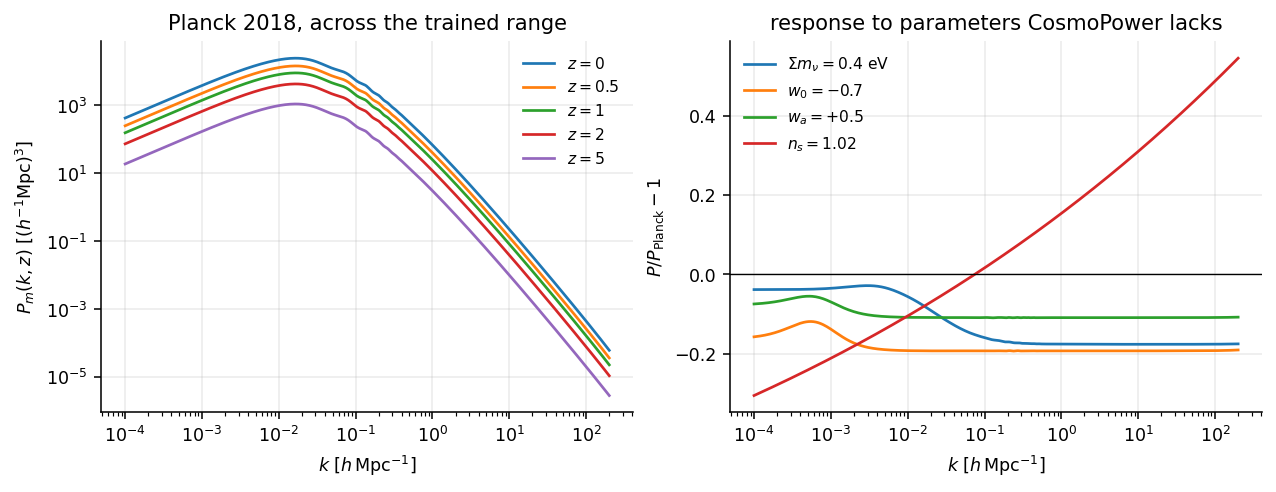
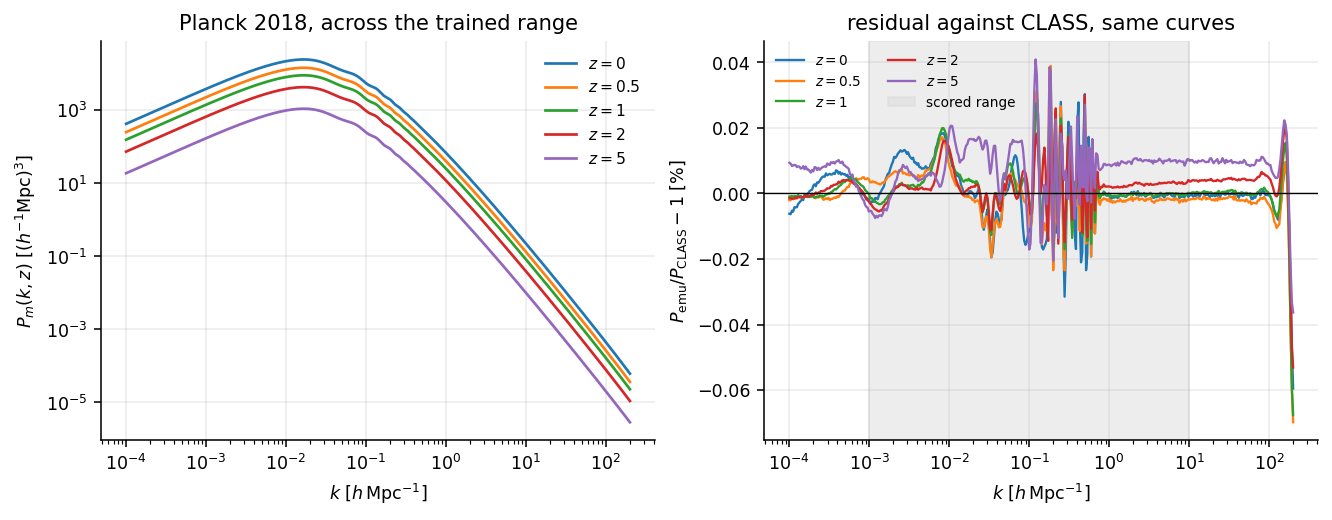
01_spectrum: show the residual against CLASS, not the CosmoPower framing
The right panel showed the response to the three parameters CosmoPower does not
carry, which is a comparison against another package on a page whose job is to
say what this one returns.  It now shows the same five redshift curves as the
left panel, as a fractional residual against a CLASS solve of the same
cosmology -- the comparison a reader wants immediately after seeing the
spectrum.  The accompanying text goes with it.

The figure needs `[gen]` now, so it moved into the group `--fast` skips.

One caveat is called out in the page rather than left to be discovered: this is
the *fiducial* cosmology, near the middle of the training box, and its residual
(under 0.04 %) is smaller than the accuracy a reader should assume.  The
held-out median of 0.111 % is on the accuracy page, and the note points there.

diff --git a/docs/make_figures.py b/docs/make_figures.py
@@ -55,30 +55,39 @@ def _save(fig, name):
 
 # ---------------------------------------------------------------- core only
 def fig_spectrum(plt, emu):
-    """P(k, z) for a few cosmologies: what the package does."""
-    k = np.logspace(-4, np.log10(grid.K_MAX), 400)
-    fig, (a, b) = plt.subplots(1, 2, figsize=(9, 3.4))
+    """P(k, z), and the same curves' residual against CLASS.
 
-    for z in (0.0, 0.5, 1.0, 2.0, 5.0):
-        a.loglog(k, emu.pk(k, z, PLANCK), lw=1.4, label=f"$z = {z:g}$")
+    Needs `[gen]`: the right panel is the emulator against the solver it is
+    distilled from, on the same lines as the left, which is the comparison a
+    reader most wants next to the spectrum itself.
+    """
+    from emu_pk import validate as V
+
+    zs = (0.0, 0.5, 1.0, 2.0, 5.0)
+    k = np.logspace(-4, np.log10(grid.K_MAX), 400)
+    fig, (a, b) = plt.subplots(1, 2, figsize=(9.4, 3.6))
+
+    # One CLASS solve returns every redshift.
+    ref = V._class_pk(PLANCK, np.array(zs), k)[0]
+    got = np.asarray(emu.pk(k, np.array(zs), PLANCK))
+
+    for i, z in enumerate(zs):
+        a.loglog(k, got[i], lw=1.4, label=f"$z = {z:g}$")
     a.set(xlabel=r"$k\ [h\,\mathrm{Mpc}^{-1}]$",
           ylabel=r"$P_m(k,z)\ [(h^{-1}\mathrm{Mpc})^3]$",
           title="Planck 2018, across the trained range")
     a.legend(frameon=False, fontsize=8)
 
-    ref = np.asarray(emu.pk(k, 0.0, PLANCK))
-    for lbl, j, v in ((r"$\Sigma m_\nu = 0.4$ eV", 5, 0.4),
-                      (r"$w_0 = -0.7$", 6, -0.7),
-                      (r"$w_a = +0.5$", 7, 0.5),
-                      (r"$n_s = 1.02$", 3, 1.02)):
-        t = PLANCK.copy()
-        t[j] = v
-        b.semilogx(k, np.asarray(emu.pk(k, 0.0, t)) / ref - 1.0, lw=1.4, label=lbl)
+    for i, z in enumerate(zs):
+        b.semilogx(k, 100.0 * (got[i] / ref[i] - 1.0), lw=1.2,
+                   label=f"$z = {z:g}$")
     b.axhline(0, color="k", lw=0.7)
+    b.axvspan(V.K_TRUSTED[0], V.K_TRUSTED[1], color="0.85", alpha=0.45,
+              zorder=0, label="scored range")
     b.set(xlabel=r"$k\ [h\,\mathrm{Mpc}^{-1}]$",
-          ylabel=r"$P/P_{\rm Planck} - 1$",
-          title="response to parameters CosmoPower lacks")
-    b.legend(frameon=False, fontsize=8)
+          ylabel=r"$P_{\rm emu}/P_{\rm CLASS} - 1$ [%]",
+          title="residual against CLASS, same curves")
+    b.legend(frameon=False, fontsize=7, ncol=2)
     return _save(fig, "01_spectrum")
 
 
@@ -246,7 +255,6 @@ def main(argv=None):
     plt = _style()
     emu = PkEmulator(check_box=False)
     print(f"emu_pk {emu_pk.__version__}")
-    fig_spectrum(plt, emu)
     fig_validation(plt)
     fig_derivatives(plt, emu)
     fig_box(plt)
@@ -255,12 +263,14 @@ def main(argv=None):
     except Exception as e:                       # the table is optional data
         print(f"  skipped 05_correction: {type(e).__name__}: {e}")
     if a.fast:
-        print("  --fast: skipping the CLASS comparison")
+        print("  --fast: skipping the figures that need CLASS "
+              "(01_spectrum, 02_residuals)")
         return
     try:
+        fig_spectrum(plt, emu)
         fig_against_class(plt, emu)
     except ImportError:
-        print("  skipped 02_residuals: needs `pip install 'emu_pk[gen]'`")
+        print("  skipped the CLASS figures: needs `pip install 'emu_pk[gen]'`")
 
 
 if __name__ == "__main__":

diff --git a/emu_pk/validate.py b/emu_pk/validate.py
@@ -35,7 +35,7 @@ ruler.  Without it a run can spend a week chasing its own finite
 difference.
 
 **The amplitude, which the shape metric removes.**  Scoring renormalises at
-:data:`K_NORM`, so a spectrum right in shape and wrong in amplitude scores
+``K_NORM``, so a spectrum right in shape and wrong in amplitude scores
 zero.  The discarded factor is reported as ``amplitude`` beside each shape
 summary, which is what makes the shape number readable as an accuracy claim
 about :math:`P(k)` rather than about its shape alone.

diff --git a/docs/quickstart.md b/docs/quickstart.md
@@ -20,7 +20,7 @@ theta = np.array([
     0.0,       # wa
 ])
 
-pk = emu.pk(k, z=0.0, params=theta)              # (Mpc/h)^3
+pk_m = emu.pk(k, z=0.0, params=theta)            # P_m(k) in (Mpc/h)^3
 ```
 
 The parameter order is `emu_pk.box.PARAMS`, and it is read from there by
@@ -29,8 +29,11 @@ everything downstream rather than repeated.
 ## Several redshifts at once
 
 ```python
-z = np.array([0.0, 0.5, 1.0, 2.0])
-pk = emu.pk(k, z, theta)          # shape (4, 400)
+z_nodes = np.array([0.0, 0.5, 1.0, 2.0])
+pk_m = emu.pk(k, z=z_nodes, params=theta)
+
+pk_m.shape        # (4, 400) == (len(z_nodes), len(k)) -- one row per redshift
+pk_m[2]           # P_m(k) at z = 1.0
 ```
 
 ## The cold field: `pk` versus `pk_cb`
@@ -96,21 +99,34 @@ This is the point of the package. `emu.pk` is a JAX function, so:
 import jax
 import jax.numpy as jnp
 
-def ln_pk(t):
-    return jnp.log(emu.pk(k, 0.0, t))
+from emu_pk import box
 
-jac = jax.jacfwd(ln_pk)(jnp.asarray(theta))       # (400, 8)
+# jax.jacfwd differentiates with respect to the FIRST argument, so the thing
+# you want derivatives of has to be that argument.  Here it is the parameter
+# vector; k and the redshift are held fixed inside.
+def ln_pk_m(params):
+    return jnp.log(emu.pk(k, z=0.0, params=params))
+
+dlnP_dtheta = jax.jacfwd(ln_pk_m)(jnp.asarray(theta))
+
+dlnP_dtheta.shape                                # (400, 8) == (len(k), len(PARAMS))
+dlnP_dtheta[:, box.PARAMS.index("omega_cdm")]    # d ln P / d omega_cdm, across k
 ```
 
-`jac[:, i]` is $\partial\ln P/\partial\theta_i$ across $k$. For `ln10A_s` it is
-exactly 1 and for `n_s` exactly $\ln(kh/k_*)$, because those two are not
-learned — see {doc}`design_notes`.
+Index the columns through `box.PARAMS` rather than by number: the order is
+defined once, there, and reading it back is what keeps a column from silently
+meaning a different parameter. For `ln10A_s` the column is exactly 1 and for
+`n_s` exactly $\ln(kh/k_*)$, because those two are not learned — see
+{doc}`design_notes`.
 
-You can differentiate with respect to redshift the same way, which is what
-$f\sigma_8$ is built from:
+Redshift works the same way. Make the redshift the first argument, and hold the
+cosmology fixed inside:
 
 ```python
-dlnP_dz = jax.jacfwd(lambda s: jnp.log(emu.pk(k, s, theta)))(0.5)
+def ln_pk_m_at(redshift):
+    return jnp.log(emu.pk(k, z=redshift, params=theta))
+
+dlnP_dz = jax.jacfwd(ln_pk_m_at)(0.5)            # (400,), evaluated at z = 0.5
 ```
 
 ## Staying inside the box
@@ -120,9 +136,12 @@ returning a number that is finite, smooth and unwarranted. `PkEmulator` checks
 on every call where the values are concrete:
 
 ```python
-bad = theta.copy()
-bad[6] = -0.2                                     # w0, outside [-1.5, -0.5]
-emu.pk(k, 0.0, bad)
+from emu_pk import box
+
+theta_outside = theta.copy()
+theta_outside[box.PARAMS.index("w0")] = -0.2      # w0 bound is [-1.5, -0.5]
+
+emu.pk(k, z=0.0, params=theta_outside)
 # ValueError: outside the emulator training box, where the network
 # extrapolates with no accuracy guarantee: w0 = -0.2 not in [-1.5, -0.5].
 ```

diff --git a/docs/tutorial/02_accuracy.md b/docs/tutorial/02_accuracy.md
@@ -38,6 +38,14 @@ $k = 0.05$. Not the full grid: the emulator is trained to 200 h/Mpc, but a
 *linear* spectrum there is far inside the regime a halo model replaces, and
 scoring it would report a number nobody uses.
 
+**Amplitude error** is what that renormalisation throws away: the fractional
+error in $P$ at $k = 0.05\ h\,\mathrm{Mpc}^{-1}$ itself. Dividing it out is
+what makes the shape number a statement about shape — but on its own it would
+let a spectrum wrong by a constant factor score perfectly, so `validate`
+reports the discarded factor beside every shape summary rather than discarding
+it. Read together they are an accuracy claim about $P(k)$, not about its shape
+alone.
+
 **Derivative error** is the median over $k$ of
 
 $$\frac{\left|\partial\ln P/\partial\theta\ \text{(emulator)} -
@@ -49,6 +57,29 @@ central differences. Dividing by CLASS's own derivative is deliberate: a
 parameter the emulator is simply *blind* to then scores 1 rather than something
 small. A derivative that is absent shows up in a Fisher matrix as a flat
 direction, which is visible; one that is merely wrong does not.
+
+## The amplitude is not where the error is
+
+The natural worry about a renormalised metric is that it hides a constant
+offset. Here it does not — the amplitude is roughly an order of magnitude
+better than the shape, so removing it barely moves the number. At $z = 0$,
+over the same held-out design:
+
+| | median | 90th | max |
+|---|---|---|---|
+| amplitude at $k = 0.05$ | 0.012 % | 0.035 % | 0.059 % |
+| shape, renormalised | 0.111 % | 0.224 % | 0.621 % |
+| **total, nothing removed** | **0.112 %** | 0.221 % | 0.603 % |
+
+The last row is the one to quote if you want a single number for $P(k)$: the
+median absolute error is **0.112 %**, against 0.111 % for the shape. The
+amplitude holds across the range too, between 0.005 % and 0.012 % at every
+scored redshift.
+
+Two things follow. The 0.111 % headline is not an artefact of the
+renormalisation. And an analysis that marginalises over amplitude — which most
+do, through $A_s$ or $\sigma_8$ — is using the part of the prediction that was
+already the more accurate of the two.
 
 ## The floor
 

diff --git a/docs/tutorial/01_spectrum.md b/docs/tutorial/01_spectrum.md
@@ -17,21 +17,26 @@ theta = np.array([0.02237, 0.1200, 0.6736, 0.9649, 3.044, 0.06, -1.0, 0.0])
 pk = emu.pk(k, z=0.0, params=theta)
 ```
 
-![The spectrum, and its response to neutrinos and dark energy](../_static/figures/01_spectrum.png)
+![The spectrum, and its residual against CLASS](../_static/figures/01_spectrum.png)
 
 *Left:* $P_m(k,z)$ at the Planck 2018 cosmology across the trained redshift
-range. *Right:* the fractional response to the three parameters CosmoPower's
-`mpk_lin` does not carry, plus a tilt for scale. All at $z=0$, relative to the
-Planck values.
+range. *Right:* the same five curves, as a fractional residual against a CLASS
+solve of the same cosmology. The shaded band is the range the accuracy claims
+are scored over, $k \in [10^{-3}, 10]\ h\,\mathrm{Mpc}^{-1}$.
 
-The neutrino panel is the familiar step: free streaming suppresses power below
-the free-streaming scale and saturates at high $k$. The textbook rule of thumb
-is $\Delta P/P \approx -8f_\nu$; at $\Sigma m_\nu = 0.4$ eV, where
-$f_\nu = \Omega_\nu/\Omega_m = 0.029$, that rule would give $-23\%$ and the
-emulator gives $-20\%$, which is the usual size of the rule's error. What
-matters downstream is that this is a *shape* change and not an amplitude one —
-which is exactly why an emulator that cannot represent it cannot be rescued by
-renormalising.
+Two things to read off it. The residual is well under a tenth of a percent
+across six decades of $k$ and the whole redshift range, and its structure is
+concentrated at the acoustic scale, $k \approx 0.1$–$0.5\
+h\,\mathrm{Mpc}^{-1}$, where the spectrum has the most features per decade and
+where any emulator works hardest.
+
+```{note}
+This is the **fiducial** cosmology, which sits near the middle of the training
+box where the emulator is at its best. It is not a held-out average, and the
+residual here is smaller than the accuracy you should assume. For that, see
+{doc}`02_accuracy`, which scores a held-out design and reports a median of
+0.111 %.
+```
 
 ## Two spectra
 

diff --git a/docs/index.md b/docs/index.md
@@ -4,9 +4,12 @@ Differentiable emulation of the **linear matter power spectrum**, over an
 eight-parameter cosmology that includes the summed neutrino mass and CPL dark
 energy, out to $k = 200\ h\,\mathrm{Mpc}^{-1}$ and $z = 5$.
 
-It reproduces CLASS's shape to a **median 0.111 %**, and because it is written
-in JAX its derivatives with respect to cosmological parameters come from
-automatic differentiation rather than finite differences. 
+It reproduces CLASS's shape to a **median 0.111 %** and its amplitude to
+**0.012 %**, so the total error on $P(k)$ itself is **0.112 %** — the shape
+metric renormalises, but there is almost nothing there to renormalise away.
+Because it is written in JAX, its derivatives with respect to cosmological
+parameters come from automatic differentiation rather than finite differences.
+
 
 ```python
 import numpy as np
